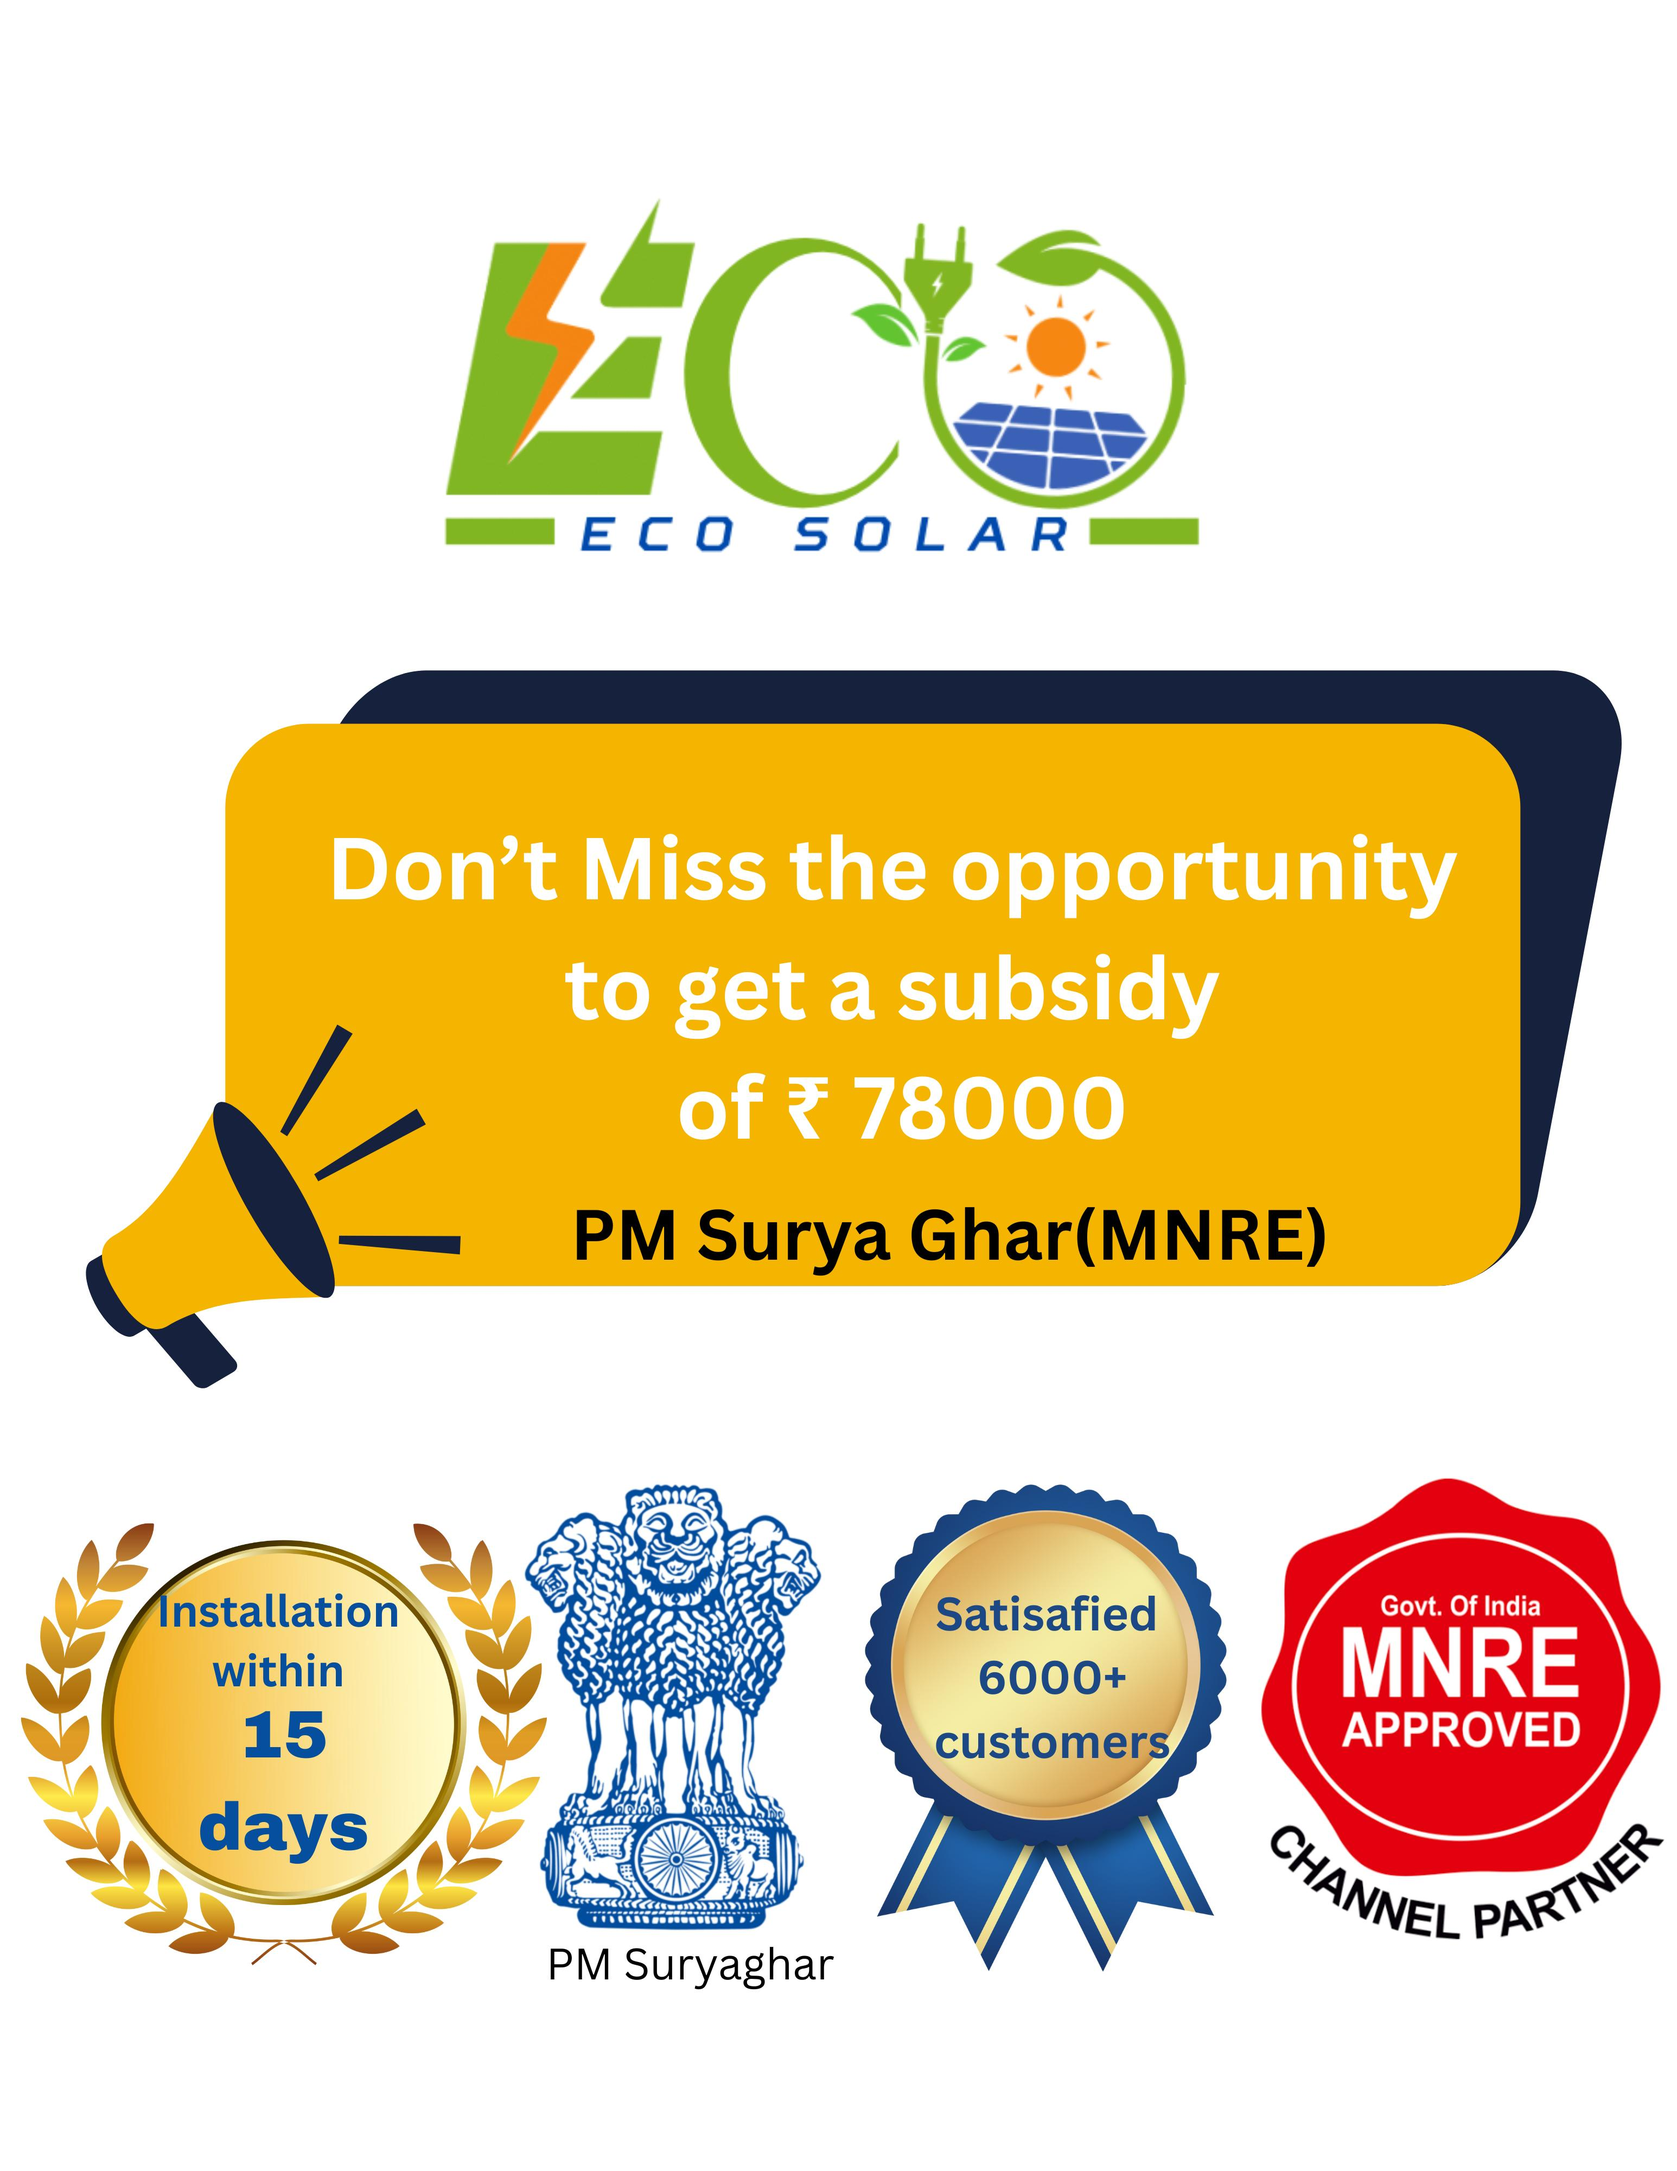
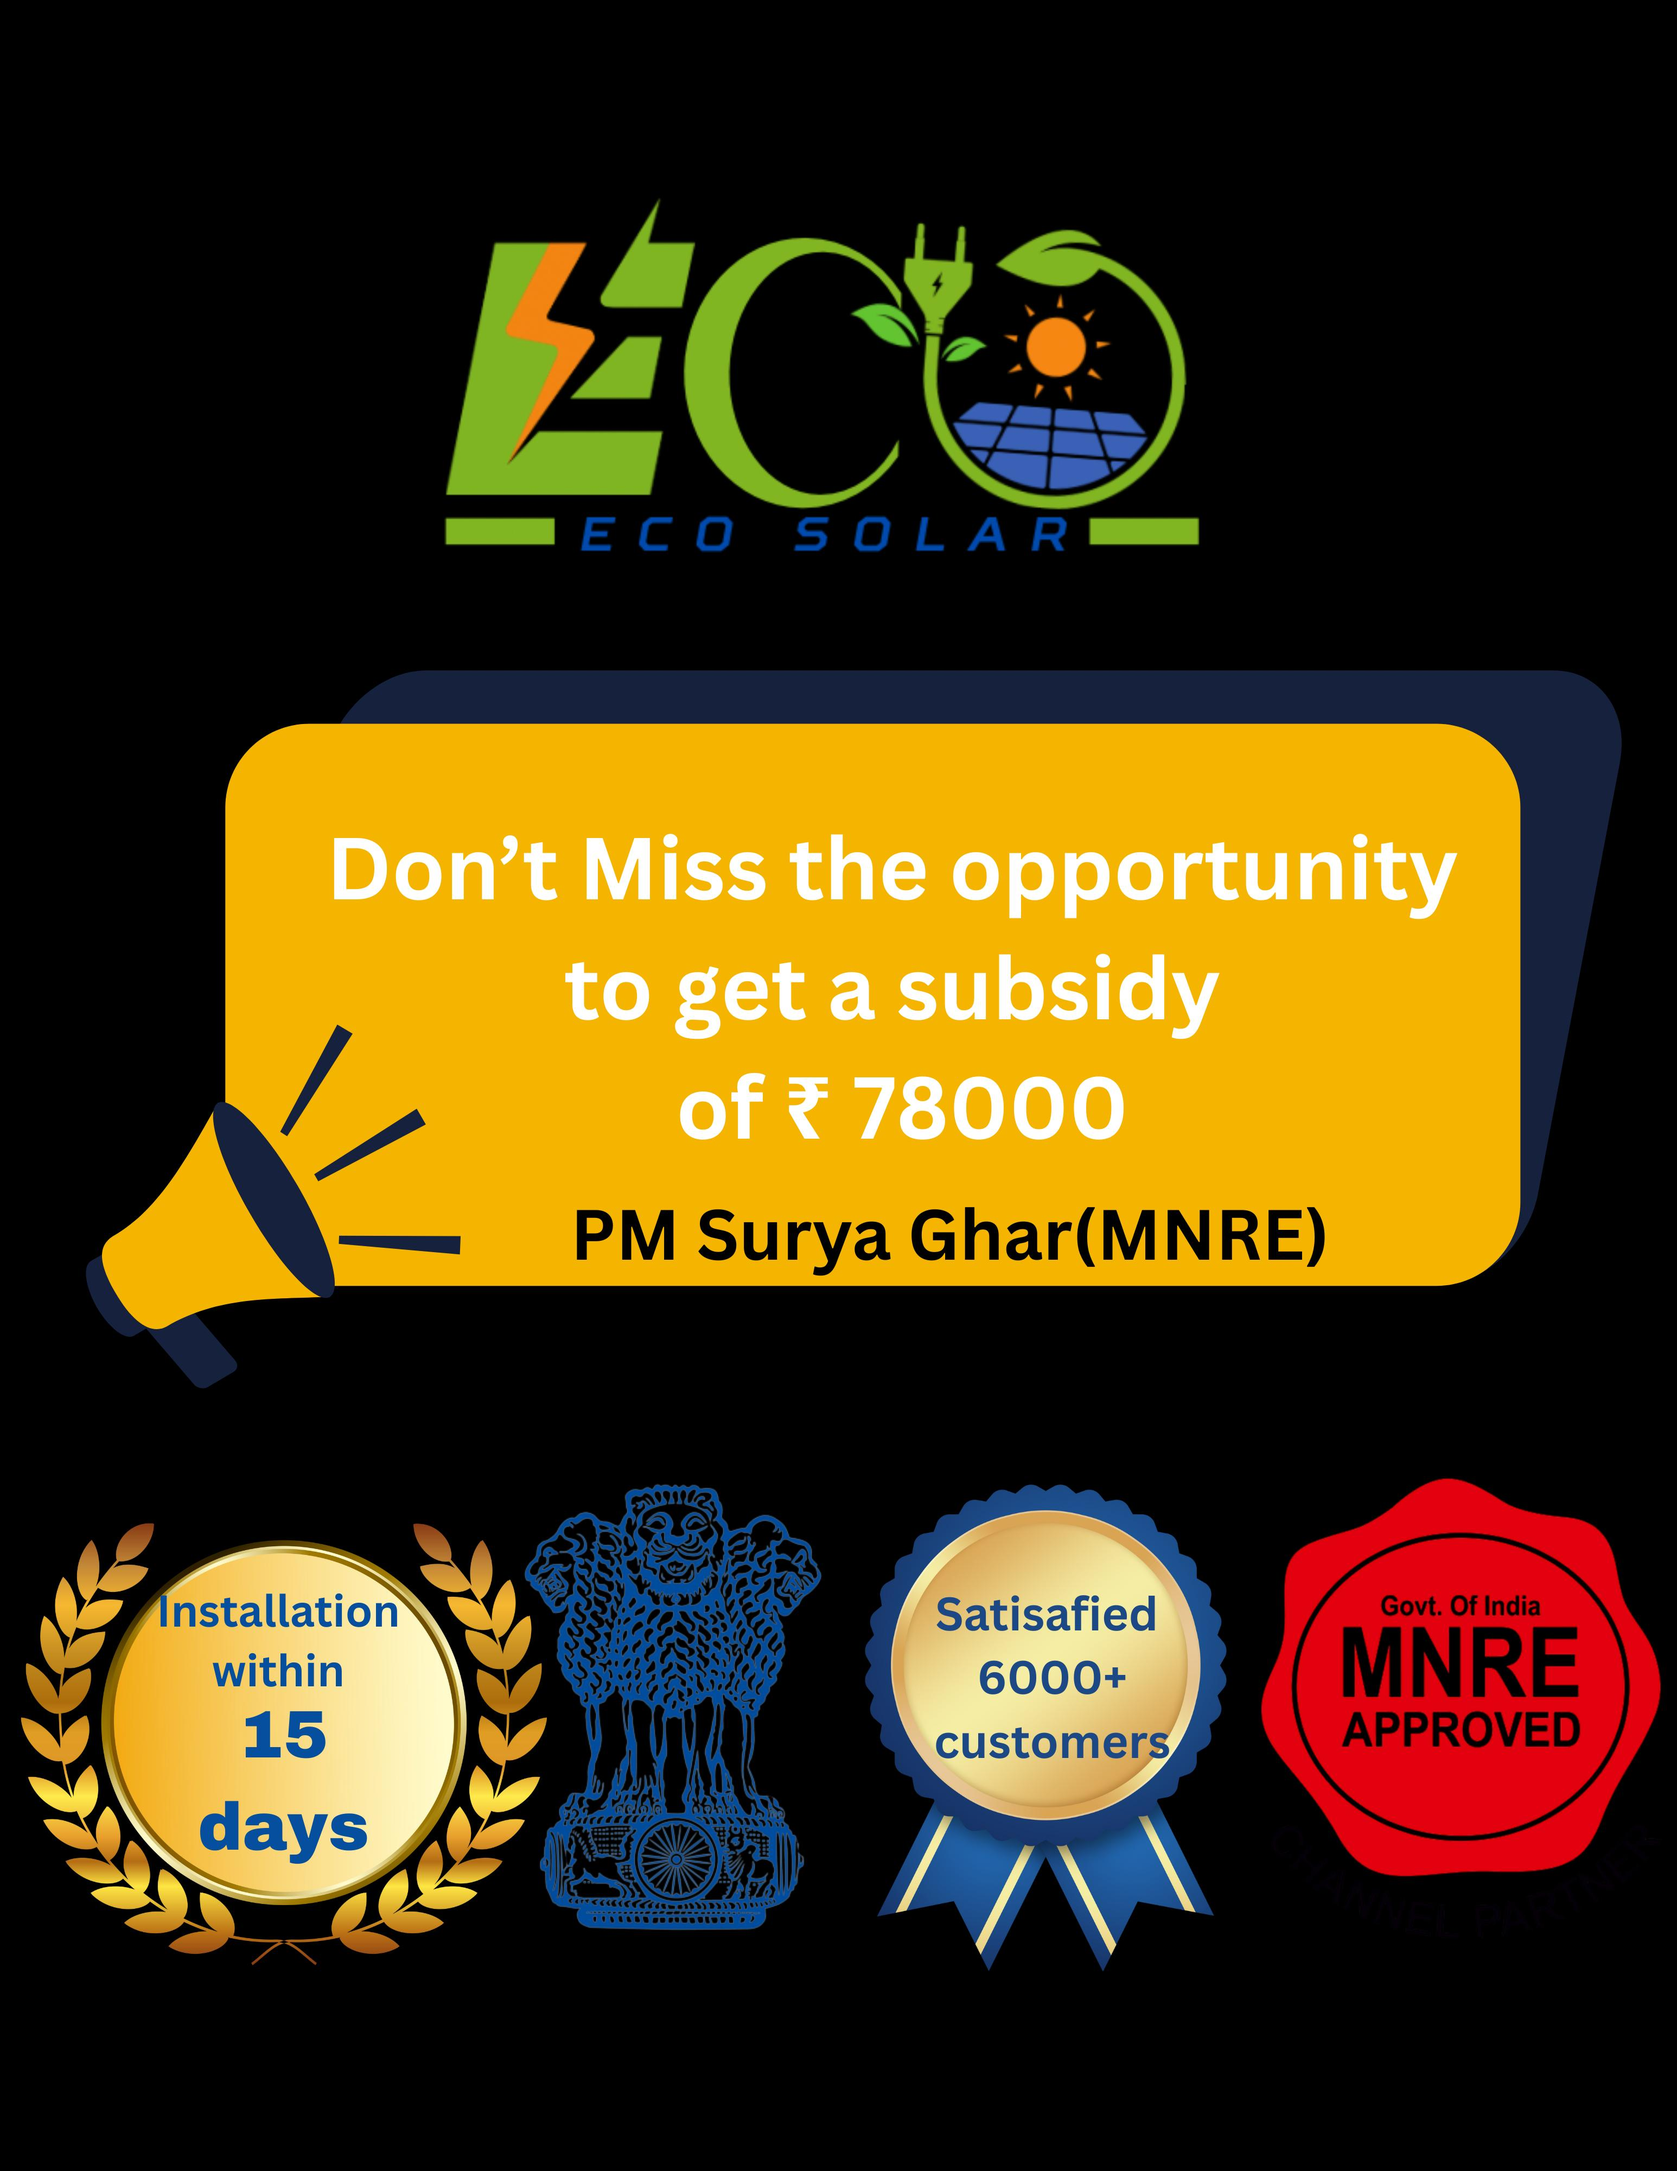
bg22

diff --git a/src/components/sections/Hero.tsx b/src/components/sections/Hero.tsx
@@ -79,7 +79,7 @@ const Hero: React.FC = () => {
         {/* Right: Large Image */}
         <div className="hidden lg:flex flex-1 justify-center items-center">
           <img
-            src="/bg2.jpg"
+            src="/bg21.PNG"
             alt="Eco Solar"
             className="h-[400px] w-[400px] object-cover shadow-2xl border-2 border-white rounded-lg"
           />
